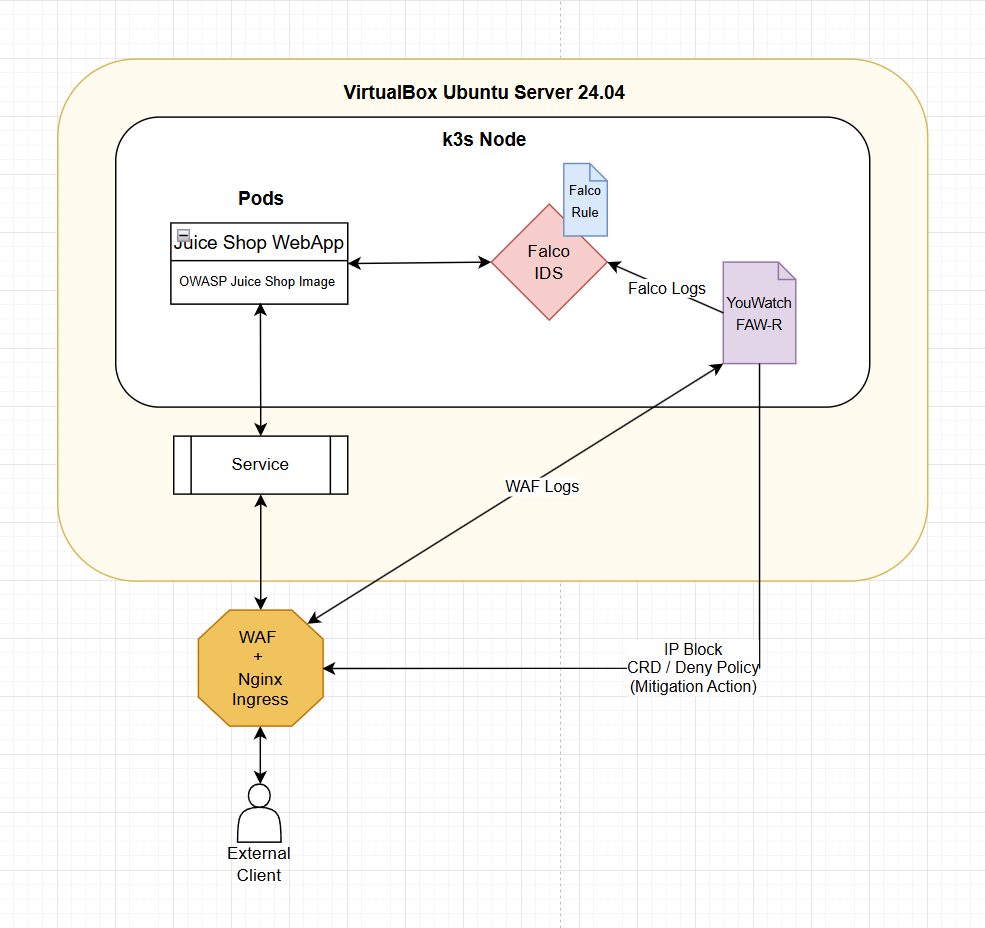
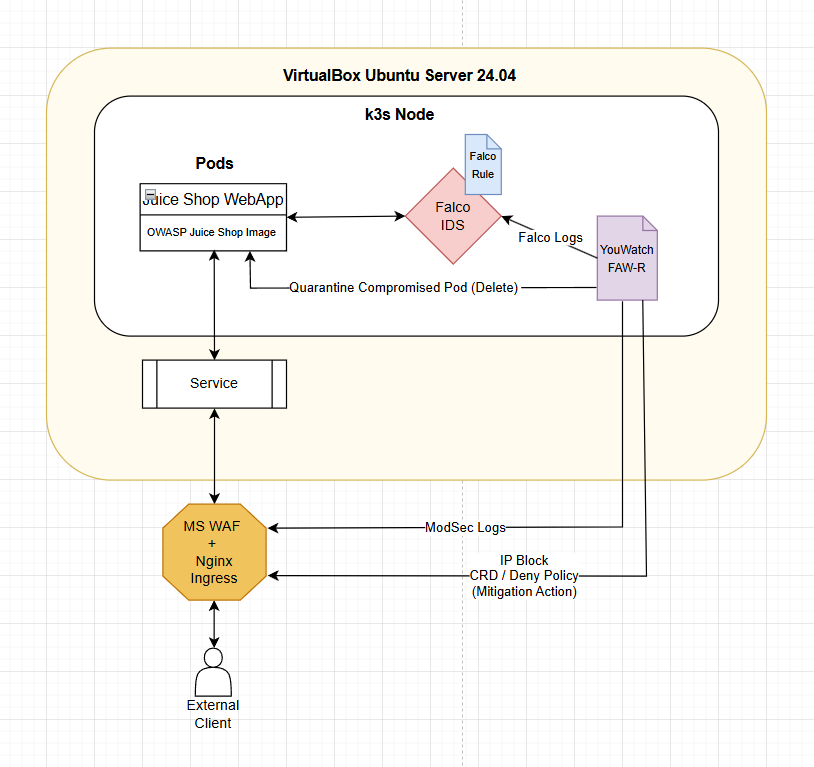
Updated Flow Chart for FAW-R

diff --git a/Kubernetes Security/YouWatch FAW-R Project (Coming Soon)/src/YouWatch FAW-R.py b/Kubernetes Security/YouWatch FAW-R Project (Coming Soon)/src/YouWatch FAW-R.py
@@ -1,0 +1,164 @@
+#!/usr/bin/env python3
+import json
+import time
+import subprocess
+import threading
+
+LOG_FILE = "/var/log/waf/modsec_audit.log"
+INGRESS_NAME = "juice-shop-waf-ingress"
+FALCO_TRIGGER = "Juice Shop pod"
+
+
+def follow(path):
+    # Tail the log file from the end.
+    with open(path, "r", encoding="utf-8", errors="ignore") as f:
+        f.seek(0, 2)
+        while True:
+            line = f.readline()
+            if not line:
+                time.sleep(0.2)
+                continue
+            yield line
+
+def get_attacker_ip(tx):
+    # Prefer real client IP.
+    headers = tx.get("request", {}).get("headers", {})
+    return headers.get("X-Real-IP") or tx.get("client_ip")
+    
+    
+
+def is_attack(messages):
+    # Return True if any message contains any attack signature.
+    attacks = set()
+    for m in messages:
+        tags = m.get("details",{}).get("tags", [])
+        for tag in tags:
+            if tag.startswith("attack-") and tag.endswith("generic") or tag.startswith("attack-") and tag.endswith("protocol"):
+                break
+            elif tag.startswith("attack-"):
+                attacks.add(tag.replace("attack-", ""))
+                
+                
+    return attacks
+    
+    
+    
+    if not isattack(messages):
+        return False
+   
+
+
+def block_ip(attacker_ip):
+    BLOCKLIST_FILE = "blocked_ips.txt"
+
+    try:
+        with open(BLOCKLIST_FILE, "r") as f:
+            blocked = set(line.strip() for line in f if line.strip())
+    except FileNotFoundError:
+        blocked = set()
+        
+        
+    blocked.add(attacker_ip)
+    with open(BLOCKLIST_FILE, "a") as f:
+        f.write(attacker_ip + "\n")
+
+    deny_rules = "".join(f"deny {b}/32;" for b in blocked)
+    snippet_content = f"{deny_rules} allow all;"
+
+    print(f"[FAW-R][*] Blocking IP: {attacker_ip}")
+
+    subprocess.run([
+        "kubectl", "annotate", "ingress", INGRESS_NAME,
+        f"nginx.ingress.kubernetes.io/server-snippet={snippet_content}",
+        "--overwrite"
+    ])
+    
+    print(f"[FAW-R][+] {attacker_ip} blocked.")
+    
+    
+    
+    
+    
+### FOLLOW FALCO LOGS. Falco logs are in: tail -F /var/log/pods/falco_*/falco/*.log
+
+def falco_watcher():
+    global falco_quarantined
+
+    print("[FAW-R][*] Watching Falco runtime events...")
+
+    proc = subprocess.Popen(
+        [
+            "kubectl", "logs", "-f",
+            "-l", "app.kubernetes.io/name=falco",
+            "-n", "falco",
+            "-c", "falco",
+            "--since=1s"
+        ],
+        stdout=subprocess.PIPE,
+        stderr=subprocess.DEVNULL,
+        text=True,
+        bufsize=1
+    )
+
+    for line in proc.stdout:
+
+        if FALCO_TRIGGER in line:
+            print("[FALCO][ALERT]", line.strip())
+            kill_pod()
+            
+            
+# Post network policies for ingress do not kick users out of pods. If a pod is compromised, deleting the existing pod and making a new one is safer and efficient.
+# Ingress can prevent entry. It cannot prevent a compromised pod. 
+
+def kill_pod():
+    print("[FAW-R][*] Killing all compromised pods...")
+    
+    subprocess.run([
+        "kubectl", "delete", "pod",
+        "-l", "app=youcefs-juice-shop",
+        "--grace-period=0",
+        "--force"
+    ], check=False)
+    
+    print("[FAW-R][+] Pod terminated. K8s will automatically create a new pod.")
+    
+def main():
+    print('''
+    
+YouWatch
+ _______ _______ ________        ______ 
+|    ___|   _   |  |  |  |______|   __ \\
+|    ___|       |  |  |  |______|      <
+|___|   |___|___|________|      |___|__|
+                                        
+YouWatch FAW-R v1.0 by Youcef Mahmoudi
+
+''')
+
+    falco_thread = threading.Thread(target=falco_watcher, daemon=True)
+    falco_thread.start()
+
+    print("[FAW-R][*] Watching ModSecurity events...\n")
+
+    for line in follow(LOG_FILE):
+        try:
+            data = json.loads(line)
+        except json.JSONDecodeError:
+            continue
+
+        tx = data.get("transaction", {})
+        messages = tx.get("messages", [])
+
+        # Only process true attacks
+        if not is_attack(messages):
+            continue
+
+        attacks = is_attack(messages)
+        attacker_ip = get_attacker_ip(tx)
+        
+        for attack in attacks:
+            print(f"[WAF] {attack.upper()} attempt from {attacker_ip}")
+            block_ip(attacker_ip)
+            
+if __name__ == "__main__":
+    main()
